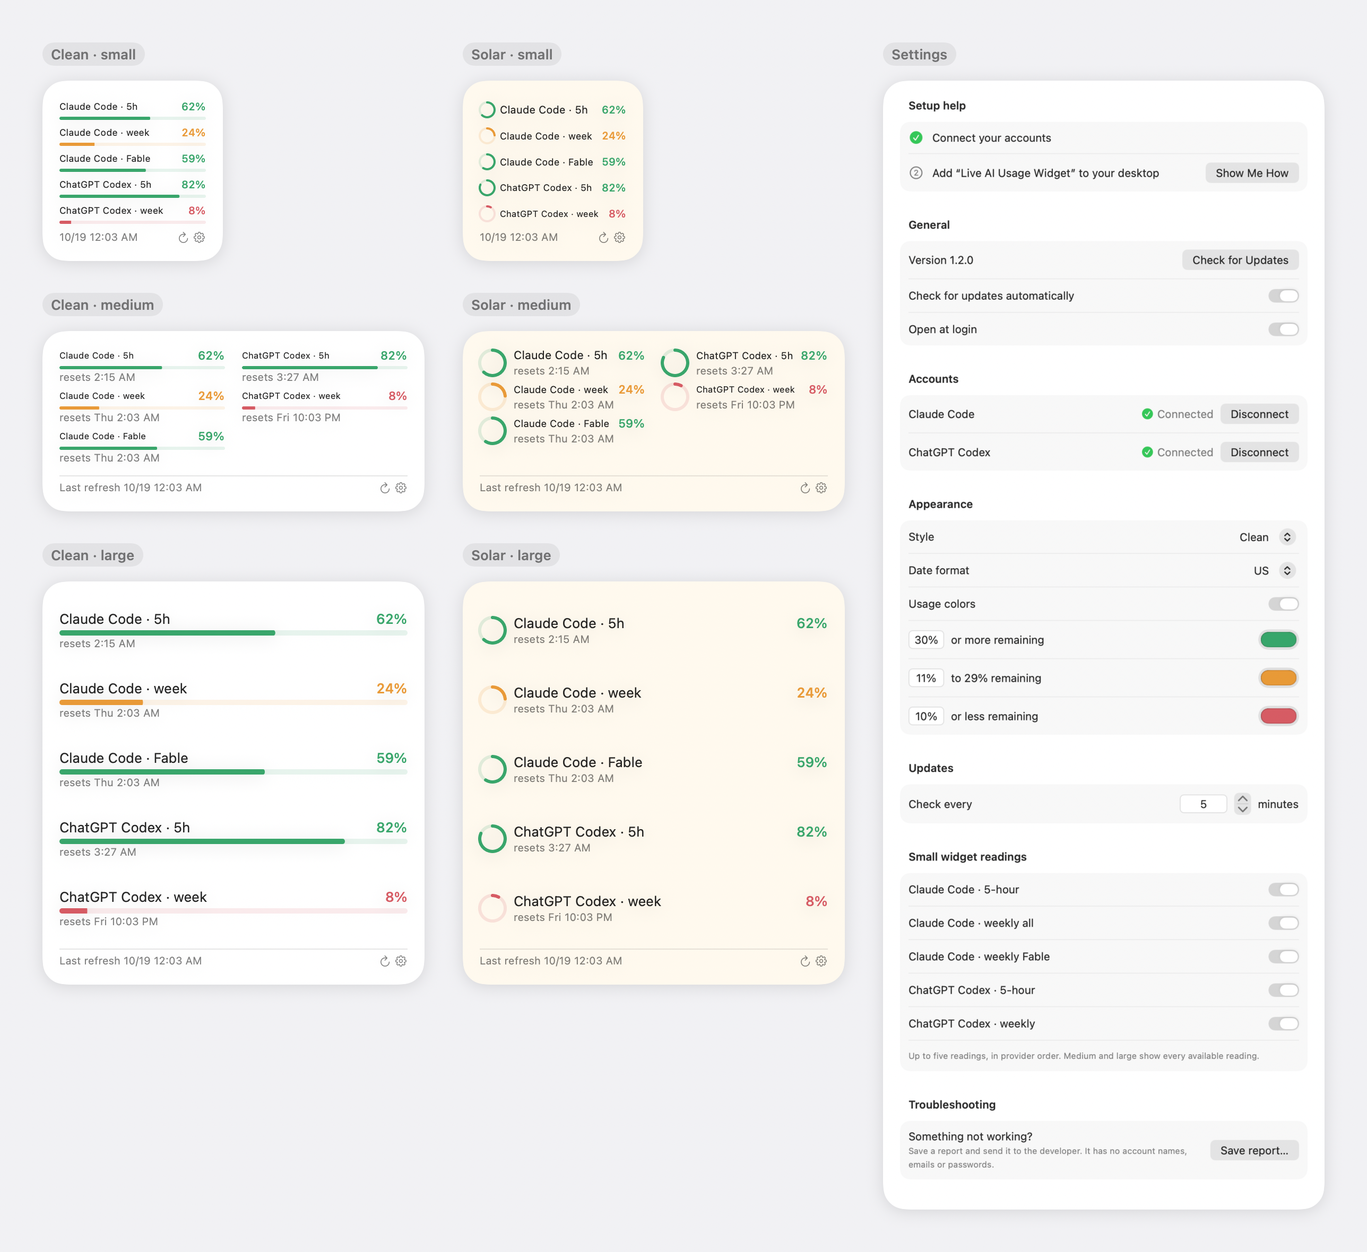
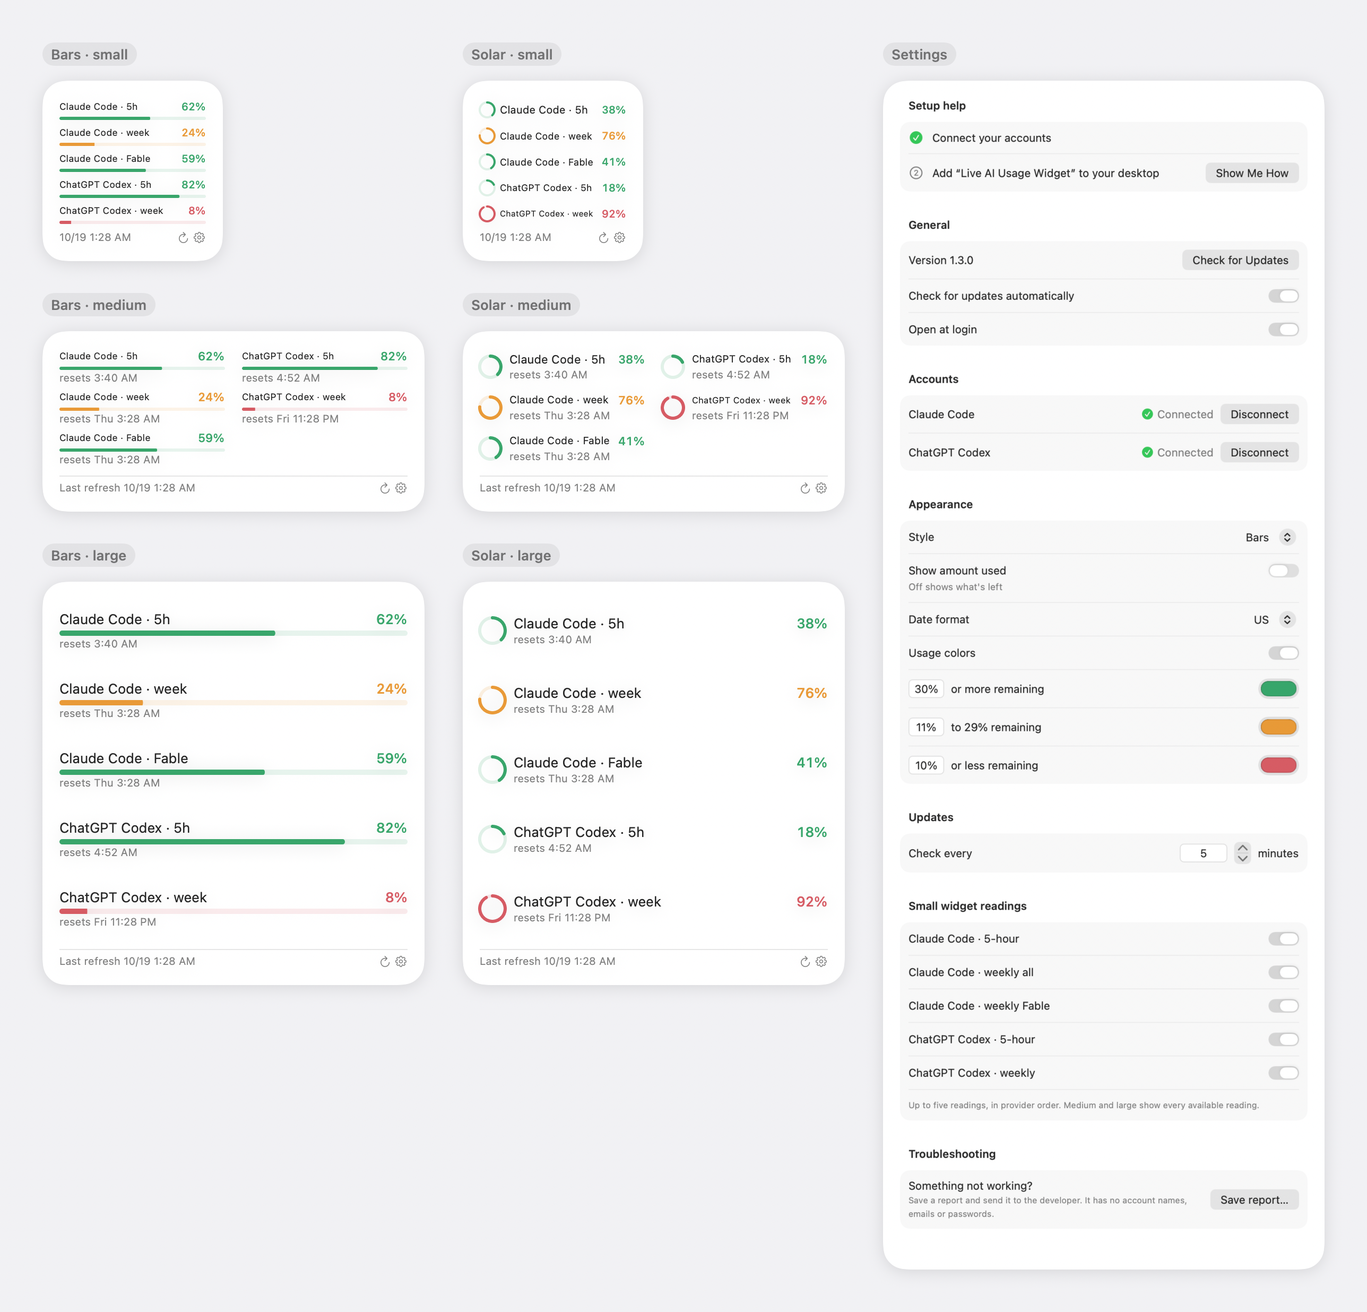
Version 1.3.0: Bars and Solar styles, show amount used, even spacing
Clean is renamed Bars. A per-style Show amount used switch (Bars default to what's
left, Solar to what's used, rings filling clockwise). Solar shares the Bars
background and colors. Rows share the widget height evenly, capped so a few
readings stay at the top. README, gallery text and picture updated.

diff --git a/Shared/StatusView.swift b/Shared/StatusView.swift
@@ -53,12 +53,17 @@ struct UsageStatusView: View {
                 Text("Connect an account in Settings").font(.system(size: 11)).foregroundStyle(.secondary)
                 Spacer(minLength: 0)
             } else if !compact && !large {
+                // Rows share the height evenly; both columns use the longer column's row count, so rows line up across.
+                let most = agents.map { shown($0).count }.max() ?? 0
                 HStack(alignment: .top, spacing: 16) {
                     ForEach(agents, id: \.self) { agent in
-                        VStack(alignment: .leading, spacing: 4) { rows(agent) }
-                            .frame(maxWidth: .infinity, alignment: .leading)
+                        VStack(alignment: .leading, spacing: 4) {
+                            rows(agent)
+                            ForEach(0..<(most - shown(agent).count), id: \.self) { _ in Color.clear.frame(maxHeight: 55) }
+                        }
+                        .frame(maxWidth: .infinity, maxHeight: .infinity, alignment: .top)
                     }
-                }
+                }.frame(maxHeight: .infinity)
             } else {
                 VStack(alignment: .leading, spacing: large ? 6 : 2) {
                     ForEach(agents, id: \.self) { agent in rows(agent) }
@@ -82,7 +87,9 @@ struct UsageStatusView: View {
             let since = status?.checkingSince ?? date
             let phase: Phase = status?.checking(at: date) == true ? (date.timeIntervalSince(since) < 0.9 ? .fading : .empty) : .shown
             let checking = phase != .shown
-            let left = waiting ? 0 : phase == .fading ? window.leftPercent : phase == .empty ? 0 : window.leftPercent
+            // What the bar, ring and number show: what's left, or what's used. Colors always follow what's left.
+            let value = settings.showsUsed() ? window.usedPercent : window.leftPercent
+            let left = waiting || phase == .empty ? 0 : value
             let visible = phase == .shown ? 1.0 : 0.0
             // Widgets allow up to two seconds of animation; growth uses all of it, slowing to a stop. Only growth moves.
             let grow: Animation? = phase == .shown ? .easeOut(duration: 2) : nil
@@ -96,15 +103,16 @@ struct UsageStatusView: View {
                             .rotationEffect(.degrees(-90))
                             .animation(grow, value: left)
                             .opacity(visible).animation(fade, value: visible)
-                    }.frame(width: compact ? (roomy ? 19 : 14) : 24, height: compact ? (roomy ? 19 : 14) : 24)
+                    }.frame(width: compact ? (roomy ? 19 : 14) : large ? 24 : 20, height: compact ? (roomy ? 19 : 14) : large ? 24 : 20)
                 }
                 VStack(alignment: .leading, spacing: 1) {
                 HStack(spacing: 3) {
                     Text(WidgetStatus.name(agent) + " · " + shortName(window.window))
-                        .foregroundStyle(.primary).lineLimit(1).minimumScaleFactor(0.75)
+                        .foregroundStyle(.primary).lineLimit(1).minimumScaleFactor(compact ? 0.6 : 0.7)
                     Spacer(minLength: 1)
-                    Text(waiting || checking ? "…" : "\(Int(window.leftPercent.rounded()))%")
+                    Text(waiting || checking ? "…" : "\(Int(value.rounded()))%")
                         .foregroundStyle(color).monospacedDigit().fontWeight(.medium)
+                        .accessibilityLabel("\(Int(value.rounded()))% " + (settings.showsUsed() ? "used" : "left"))
                         .contentTransition(.numericText(value: left)).animation(grow ?? fade, value: left)
                 }.font(.system(size: large ? 13 : compact ? 10 : 11))
                 if settings.style == "clean" {
@@ -126,7 +134,8 @@ struct UsageStatusView: View {
             }
             }
             .opacity(stale ? 0.55 : 1)
-            .frame(maxHeight: compact || large ? .infinity : nil)
+            // Rows share the height evenly, up to a comfortable spacing; with only a few readings they stay at the top.
+            .frame(maxHeight: compact ? .infinity : large ? 80 : 55)
             .accessibilityElement(children: .combine)
         }
     }
@@ -202,9 +211,8 @@ struct RefreshButton: View {
 
 struct WidgetPaper: View {
     var style: String
-    @Environment(\.colorScheme) private var scheme
     var body: some View {
-        if style == "solar" { (scheme == .dark ? Color(red: 0.157, green: 0.141, blue: 0.122) : Color(red: 1, green: 0.976, blue: 0.933)) }
-        else { Color(nsColor: .windowBackgroundColor) }
+        // Both styles share one background and palette; only the way readings are drawn differs.
+        Color(nsColor: .windowBackgroundColor)
     }
 }

diff --git a/Shared/Settings.swift b/Shared/Settings.swift
@@ -18,8 +18,11 @@ struct WidgetSettings: Codable, Equatable {
     var autoUpdates = true
     /// A newer version the app found on GitHub; the widget mentions it while automatic checks are on.
     var availableUpdate: String? = nil
+    /// Per style: true shows how much is used, false what is left. Bars ("clean") default to left, Solar rings to used.
+    var showUsed: [String: Bool] = [:]
+    func showsUsed(_ style: String? = nil) -> Bool { showUsed[style ?? self.style] ?? ((style ?? self.style) == "solar") }
     init() {}
-    enum CodingKeys: String, CodingKey { case enabled, generation, usDates, usageColors, highThreshold, lowThreshold, highColor, middleColor, lowColor, style, hiddenSmallMetrics, refreshMinutes, autoDetected, autoUpdates, availableUpdate }
+    enum CodingKeys: String, CodingKey { case enabled, generation, usDates, usageColors, highThreshold, lowThreshold, highColor, middleColor, lowColor, style, hiddenSmallMetrics, refreshMinutes, autoDetected, autoUpdates, availableUpdate, showUsed }
     init(from decoder: Decoder) throws {
         let c = try decoder.container(keyedBy: CodingKeys.self)
         enabled = (try c.decodeIfPresent([String].self, forKey: .enabled) ?? []).filter { ["claude", "codex"].contains($0) }
@@ -32,13 +35,14 @@ struct WidgetSettings: Codable, Equatable {
         middleColor = try c.decodeIfPresent(String.self, forKey: .middleColor) ?? "#E99A38"
         lowColor = try c.decodeIfPresent(String.self, forKey: .lowColor) ?? "#D65B64"
         style = try c.decodeIfPresent(String.self, forKey: .style) ?? "clean"
-        // Trends was removed in 1.1.4; anyone who chose it gets Clean.
+        // Trends was removed in 1.1.4; anyone who chose it gets Bars.
         if !["clean", "solar"].contains(style) { style = "clean" }
         hiddenSmallMetrics = try c.decodeIfPresent([String].self, forKey: .hiddenSmallMetrics) ?? []
         refreshMinutes = min(1440, max(1, try c.decodeIfPresent(Int.self, forKey: .refreshMinutes) ?? 5))
         autoDetected = try c.decodeIfPresent(Bool.self, forKey: .autoDetected) ?? false
         autoUpdates = try c.decodeIfPresent(Bool.self, forKey: .autoUpdates) ?? true
         availableUpdate = try c.decodeIfPresent(String.self, forKey: .availableUpdate)
+        showUsed = try c.decodeIfPresent([String: Bool].self, forKey: .showUsed) ?? [:]
         if !highThreshold.isFinite || !lowThreshold.isFinite || lowThreshold < 0 || highThreshold > 100 || lowThreshold >= highThreshold {
             highThreshold = 30; lowThreshold = 10
         }

diff --git a/tests/RenderOverview.swift b/tests/RenderOverview.swift
@@ -61,7 +61,7 @@ import SwiftUI
         model.timer?.invalidate()
         model.settings = settings
         model.status = status
-        let settingsHeight: CGFloat = 1330
+        let settingsHeight: CGFloat = 1400
         let host = NSHostingView(rootView: SettingsView(model: model).frame(width: 520, height: settingsHeight))
         host.frame = NSRect(x: 0, y: 0, width: 520, height: settingsHeight)
         let window = NSWindow(contentRect: host.frame, styleMask: [.borderless], backing: .buffered, defer: false)
@@ -74,11 +74,11 @@ import SwiftUI
 
         let page = HStack(alignment: .top, spacing: 36) {
             // One column per style: small, medium, large.
-            ForEach(["Clean", "Solar"], id: \.self) { style in
+            ForEach([("Bars", "clean"), ("Solar", "solar")], id: \.1) { name, style in
                 VStack(alignment: .leading, spacing: 30) {
-                    labeled(style + " · small", widget(style.lowercased(), "small"))
-                    labeled(style + " · medium", widget(style.lowercased(), "medium"))
-                    labeled(style + " · large", widget(style.lowercased(), "large"))
+                    labeled(name + " · small", widget(style, "small"))
+                    labeled(name + " · medium", widget(style, "medium"))
+                    labeled(name + " · large", widget(style, "large"))
                 }.frame(width: 360, alignment: .leading)
             }
             labeled("Settings", Image(nsImage: settingsImage).resizable().frame(width: 520 * 0.8, height: settingsHeight * 0.8).clipShape(RoundedRectangle(cornerRadius: 22, style: .continuous))

diff --git a/App/UsageApp.swift b/App/UsageApp.swift
@@ -675,7 +675,12 @@ struct SettingsView: View {
             }
             Section("Appearance") {
                 Picker("Style", selection: $model.settings.style) {
-                    Text("Clean").tag("clean"); Text("Solar").tag("solar")
+                    Text("Bars").tag("clean"); Text("Solar").tag("solar")
+                }
+                // Remembered per style: Bars start on what's left, Solar rings on what's used.
+                Toggle(isOn: Binding(get: { model.settings.showsUsed() }, set: { model.settings.showUsed[model.settings.style] = $0 })) {
+                    Text("Show amount used")
+                    Text("Off shows what's left")
                 }
                 Picker("Date format", selection: $model.settings.usDates) { Text("US").tag(true); Text("European").tag(false) }
                 Toggle("Usage colors", isOn: $model.settings.usageColors)

diff --git a/Helper/Reader.swift b/Helper/Reader.swift
@@ -179,7 +179,7 @@ enum UsageReader {
     static func codex(directory: URL, binary: String? = nil, timeout: Double = 15) throws -> [String: Any] {
         let child = try ChildProcess(binary: binary ?? find("codex"), arguments: ["app-server", "--listen", "stdio://"], directory: directory.path)
         defer { child.stop() }
-        try child.sendJSON(["id": 0, "method": "initialize", "params": ["clientInfo": ["name": "live_ai_usage_widget", "title": "Live AI Usage Widget", "version": "1.2.0"]]])
+        try child.sendJSON(["id": 0, "method": "initialize", "params": ["clientInfo": ["name": "live_ai_usage_widget", "title": "Live AI Usage Widget", "version": "1.3.0"]]])
         let start = ProcessInfo.processInfo.systemUptime
         var pending = Data(), total = 0, initialized = false
         while ProcessInfo.processInfo.systemUptime - start < timeout {

diff --git a/Widget/UsageWidget.swift b/Widget/UsageWidget.swift
@@ -61,7 +61,7 @@ struct UsageWidget: Widget {
     var body: some WidgetConfiguration {
         StaticConfiguration(kind: StatusStore.kind, provider: Provider()) { WidgetView(entry: $0) }
             .configurationDisplayName("Live AI Usage Widget")
-            .description("Claude Code and ChatGPT Codex usage remaining.")
+            .description("How much of your Claude Code and ChatGPT Codex limits is left or used.")
             .supportedFamilies([.systemSmall, .systemMedium, .systemLarge])
     }
 }

diff --git a/scripts/build.py b/scripts/build.py
@@ -34,8 +34,8 @@ def main():
     for folder, executable, bundle, kind in [(app, 'UsageWidget', args.bundle_id, 'APPL'),
                                             (extension, 'UsageWidgetExtension', args.bundle_id + '.widget', 'XPC!')]:
         info = dict(CFBundleDisplayName='Live AI Usage Widget', CFBundleName='Live AI Usage Widget', CFBundleExecutable=executable,
-                    CFBundleIdentifier=bundle, CFBundlePackageType=kind, CFBundleVersion='31',
-                    CFBundleShortVersionString='1.2.0', LSMinimumSystemVersion='14.0', UsageAppGroup=group)
+                    CFBundleIdentifier=bundle, CFBundlePackageType=kind, CFBundleVersion='32',
+                    CFBundleShortVersionString='1.3.0', LSMinimumSystemVersion='14.0', UsageAppGroup=group)
         if kind == 'XPC!':
             info['NSExtension'] = {'NSExtensionPointIdentifier': 'com.apple.widgetkit-extension'}
         else:

diff --git a/scripts/package.py b/scripts/package.py
@@ -34,7 +34,7 @@ def main():
         contents[name] = data
     destination = ROOT / 'dist'
     destination.mkdir(exist_ok=True)
-    archive = destination / 'live-ai-usage-widget-1.2.0-source.zip'
+    archive = destination / 'live-ai-usage-widget-1.3.0-source.zip'
     with zipfile.ZipFile(archive, 'w', compression=zipfile.ZIP_DEFLATED) as output:
         for name, data in sorted(contents.items()):
             info = zipfile.ZipInfo('live-ai-usage-widget/' + name, date_time=(2026, 1, 1, 0, 0, 0))

diff --git a/README.md b/README.md
@@ -1,14 +1,14 @@
 # Live AI Usage Widget
 
-A macOS desktop widget that shows how much of your Claude Code and ChatGPT Codex usage limits are left. Small, medium and large widgets come in Clean (default) and Solar styles. Accounts and data stay on your own Mac.
+A macOS desktop widget that shows how much of your Claude Code and ChatGPT Codex usage limits are left, or how much you have used. Small, medium and large widgets come in two styles: Bars (default), which shows what is left, and Solar, rings that fill clockwise as you use your limits. Accounts and data stay on your own Mac.
 
-**[Download for Mac (Apple Silicon)](https://github.com/jeremymorrison77/live-ai-usage-widget/releases/latest/download/Live-AI-Usage-Widget-1.2.0-macOS-arm64.zip)** · version 1.2.0 · macOS 14 or later · M1 or newer
+**[Download for Mac (Apple Silicon)](https://github.com/jeremymorrison77/live-ai-usage-widget/releases/latest/download/Live-AI-Usage-Widget-1.3.0-macOS-arm64.zip)** · version 1.3.0 · macOS 14 or later · M1 or newer
 
 <p align="center"><img src="docs/images/overview.png" alt="Settings window and the widget in all sizes and styles" width="100%"></p>
 
 Pictures are drawn from the app's own views with made-up sample readings, not a real account.
 
-**Version 1.2.0.** Apple Silicon Macs, macOS 14 or later. Signed and notarized by Apple.
+**Version 1.3.0.** Apple Silicon Macs, macOS 14 or later. Signed and notarized by Apple.
 
 ## Download and install
 
@@ -16,7 +16,7 @@ Pictures are drawn from the app's own views with made-up sample readings, not a 
 2. Double-click the ZIP to unzip it and drag **Live AI Usage Widget** into Applications.
 3. Open it from Applications. If you open it from Downloads instead, it offers to move itself into Applications. The setup window appears; follow its Setup help steps.
 
-The app has no Dock icon. It lives in the menu bar (a ring with a pulse line): one line per account (Claude Code, ChatGPT Codex), then Settings, Check usage now and Quit. Updates: the app checks GitHub once a day and the menu shows "Update to version X" when one is out. One click downloads it, checks it is Apple-approved and from the same developer, replaces the app and reopens it; your settings are kept. Settings also has Check for updates and a switch to turn automatic checks off.
+The app has no Dock icon. It lives in the menu bar (a ring with a pulse line): one line per account (Claude Code, ChatGPT Codex), then Settings, Check usage now and Quit. Updates: the app checks GitHub once a day and the menu shows "Update to version X" when one is out. One click downloads it, checks it is Apple-approved and from the same developer, replaces the app and reopens it; your settings are kept. With automatic checks on, the widget's status line also says "Version X available"; tapping it opens Settings. Settings also has Check for Updates and a switch to turn automatic checks off.
 
 ## Setup and settings
 
@@ -26,9 +26,9 @@ The app has no Dock icon. It lives in the menu bar (a ring with a pulse line): o
 
 **General.** Version and Check for updates, Check for updates automatically (on by default), Open at login (on by default).
 
-**Accounts.** One line each for Claude Code and ChatGPT Codex, with one button that always says what it will do: Install, Connect, Connected (hover to Disconnect), or Sign in, Update, Finish setup or Try again when something needs attention. No Terminal needed. On first launch, tools that are already installed and signed in connect on their own. Disconnect only hides that account; the tool stays signed in.
+**Accounts.** One line each for Claude Code and ChatGPT Codex: its state (Connected, Connecting…, Not installed, or what went wrong) and one button for the next step: Install, Connect, Disconnect, or Sign In, Update, Finish Setup or Try Again when something needs attention. No Terminal needed. On first launch, tools that are already installed and signed in connect on their own. Disconnect only hides that account; the tool stays signed in.
 
-**Appearance.** Style: Clean (default) or Solar. Date format: US or European. Usage colors on or off, with three color bands you can recolor and re-threshold (30% or more remaining, 11–29%, 10% or less by default).
+**Appearance.** Style: Bars (default) or Solar. Both use the same background and colors; only the way readings are drawn differs. Show amount used: off shows what is left, on shows what is used; each style remembers its own choice (Bars starts off, Solar starts on). Date format: US (default) or European. Usage colors on or off, with three color bands you can recolor and re-threshold (30% or more remaining, 11–29%, 10% or less by default).
 
 **Updates.** Check every N minutes: 5 by default, any value from 1 to 1,440. After a failed check the app waits at least 15 minutes before trying again. Check usage now in the menu bar, or the refresh button on the widget, checks immediately.
 
@@ -42,7 +42,7 @@ Changes apply as you make them; there is no Save button. You can close the windo
 
 ## What it shows
 
-- Remaining percentage for each limit your plan exposes: Claude Code's five-hour, weekly and any model-specific weekly windows; ChatGPT Codex five-hour and weekly. ChatGPT Codex here means Codex coding allowances, not other ChatGPT products or API billing.
+- The percentage left (or used) for each limit your plan exposes: Claude Code's five-hour, weekly and any model-specific weekly windows; ChatGPT Codex five-hour and weekly. ChatGPT Codex here means Codex coding allowances, not other ChatGPT products or API billing.
 - When each limit resets, and when it was last updated. Readings fade as they age and failures show their date. A newly connected account appears right away with Loading… until its first reading arrives.
 
 ## Requirements
@@ -55,7 +55,7 @@ No provider tools, credentials or private signing material are included.
 
 ## Known limits
 
-Tested on two Apple Silicon Macs with real Claude Code and ChatGPT Codex accounts. Not yet tested: installing as a brand-new macOS user, reboots and sleep over several days, sign-ins renewing on their own over time, and revoked sign-ins. See [release checks](docs/RELEASE-CHECKLIST.md).
+Tested on two Apple Silicon Macs with real Claude Code and ChatGPT Codex accounts, and on fresh macOS 15 test Macs with neither tool, either one, and both. Not yet tested: reboots and sleep over several days, sign-ins renewing on their own over time, and revoked sign-ins. See [release checks](docs/RELEASE-CHECKLIST.md).
 
 ## Build and test
 

diff --git a/docs/CLAUDE-HANDOFF.md b/docs/CLAUDE-HANDOFF.md
@@ -5,7 +5,7 @@ Current version: **1.2.0 (build 31), Apple Silicon, macOS 14+**, published as a 
 ## Current state
 
 - Name: Live AI Usage Widget. Bundle identifier `com.liveaiusagewidget.app`, widget `com.liveaiusagewidget.app.widget`, app group `TEAMID.com.liveaiusagewidget.app`, link scheme `live-ai-usage-widget://`.
-- The app is a menu bar app (no Dock icon): one iconned line per account, then Settings, Check usage now and Quit. It opens one setup window (Setup help steps, hidden once all are done with a Setup help link to show them, accounts, appearance, updates interval, small-widget readings; settings apply as they change (no Save button); Setup help toggle at the bottom once set up). There is no separate preview window. Connecting needs no Terminal: background install, browser sign-in, and automatic trust of the app's own probe folder. Clean is the default style.
+- The app is a menu bar app (no Dock icon): one iconned line per account, then Settings, Check usage now and Quit. It opens one setup window (Setup help steps, hidden once all are done with a Setup help link to show them, accounts, appearance, updates interval, small-widget readings; settings apply as they change (no Save button); Setup help toggle at the bottom once set up). There is no separate preview window. Connecting needs no Terminal: background install, browser sign-in, and automatic trust of the app's own probe folder. Bars (stored as "clean") is the default style; Solar is stored as "solar".
[1 lines of base64/hex data omitted]
 - The README picture `docs/images/overview.png` is drawn by `bash scripts/render_overview.sh` from the app's real views with sample data, then stripped of metadata. `scripts/package.py` refuses PNGs that carry metadata.
 

diff --git a/CHANGELOG.md b/CHANGELOG.md
@@ -1,5 +1,9 @@
 # Changelog
 
+## 1.3.0
+
+Clean is now called Bars. New Show amount used switch under Style: off shows what is left, on shows what is used, remembered per style. Bars start on what is left; Solar starts on what is used, with rings that fill clockwise like the rings in the Claude and ChatGPT apps. Solar now uses the same background and colors as Bars. Colors still follow what is left, so a nearly used-up limit turns red either way. Readings are spaced evenly to fill the medium widget, and on every size the spacing adjusts to how many readings are shown; with only a few they stay at the top. The widget gallery description now reads "How much of your Claude Code and ChatGPT Codex limits is left or used."
+
 ## 1.2.0
 
 US dates (10/19 2:00 AM) are the default for new installs; European dates stay available in Settings, and an existing choice is kept. With Check for updates automatically on, the widget's status line says when a new version is available (for example "Version 1.2.1 available"); tapping it opens Settings. The README picture shows each style in its own column: Clean on the left, Solar in the middle.

diff --git a/docs/RELEASE-CHECKLIST.md b/docs/RELEASE-CHECKLIST.md
@@ -1,6 +1,6 @@
 # Release acceptance
 
-Version 1.2.0. A signed, notarized Apple Silicon ZIP is prepared. Notarization establishes Apple's distribution check, not compatibility with every account or Mac.
+Version 1.3.0. A signed, notarized Apple Silicon ZIP is prepared. Notarization establishes Apple's distribution check, not compatibility with every account or Mac.
 
 ## Verified locally
 
